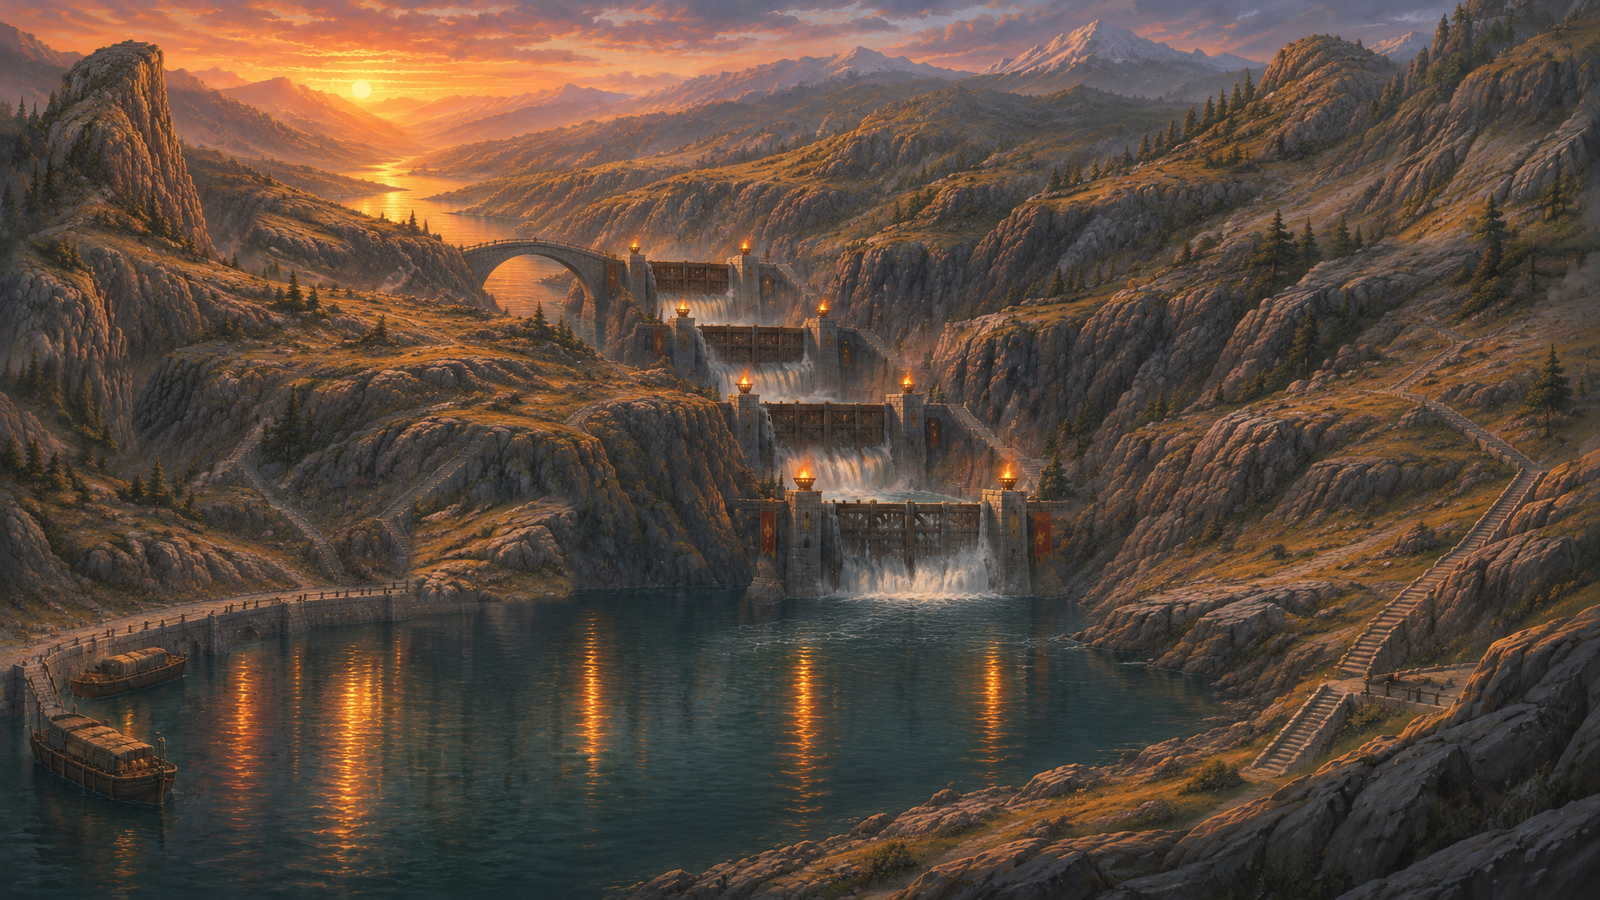
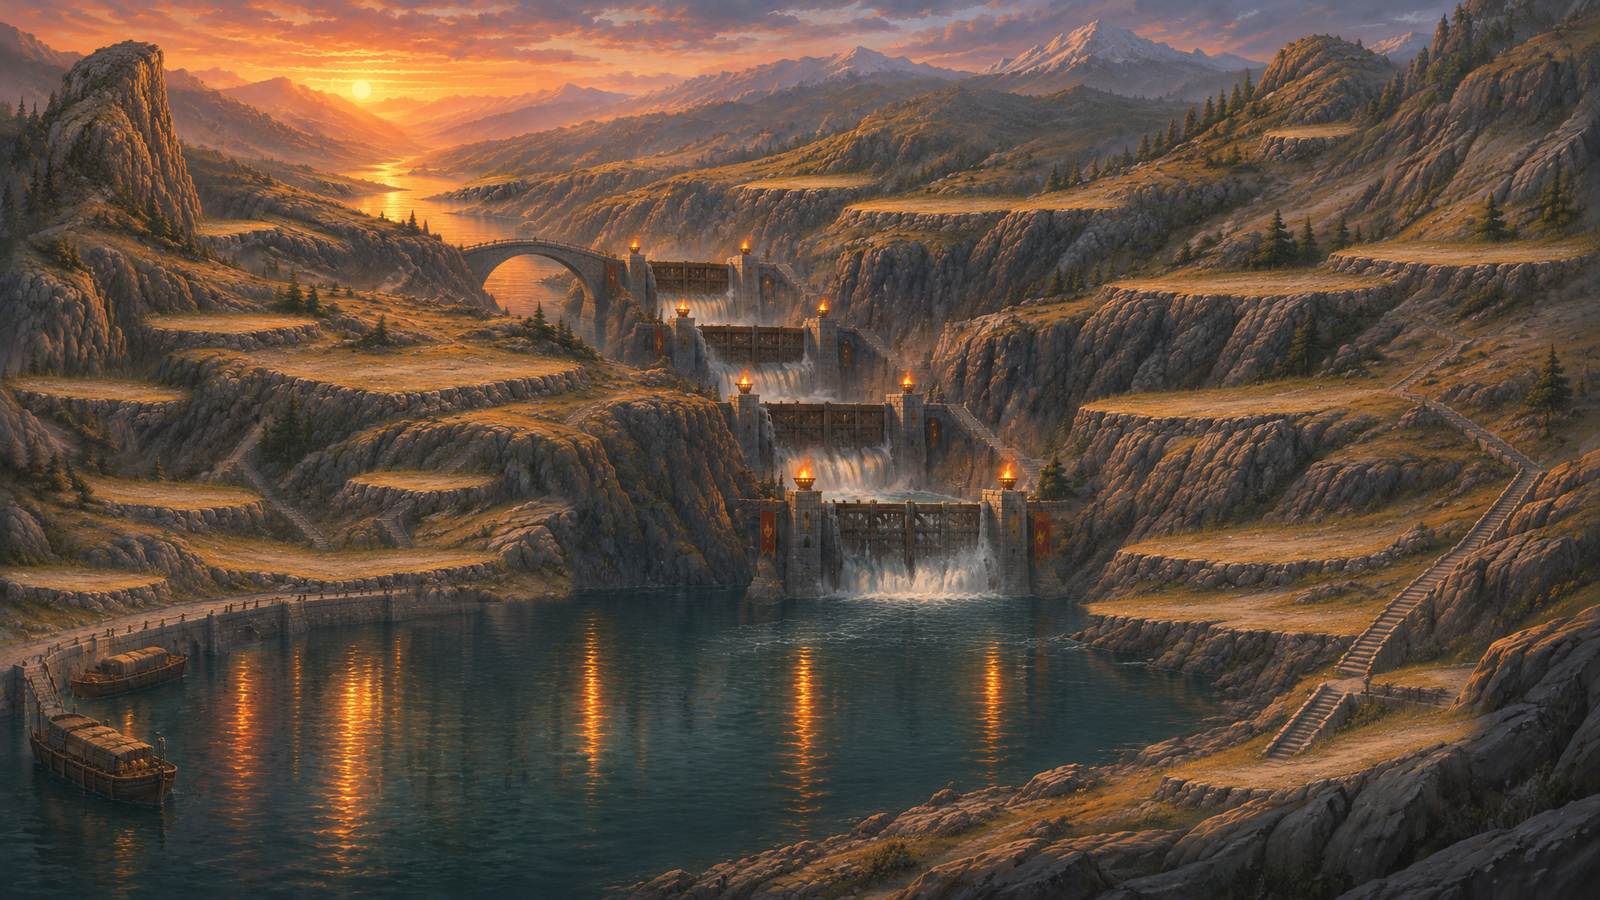
Town buildings stand on level ground: shelves painted into four backdrops
The owner found buildings still floating and standing where nothing could
stand (Sunvault, Thornwake, Veilmourn). Each building was painted into the
empty scene with a shelf of its own under it; the layer keeps the building
alone, so on a cliff face or a slope its base hung over ground that was never
level.

The ground now carries the shelf. tools/town_plot_shelves.py marks a band at
the foot of every plot's buildings (from all its stages' mattes) as the markup
of one unmasked edit of the backdrop, and blends that edit in only near the
bands, keeping water, falls, lamps and foreground, so the effect and
foreground masks still fit. Plots on water or on their own piles get no band.

Shipped for Sunvault, Veilmourn, Thornwake and Embercourt: new backdrops and
built-town pictures. The 208 building layers of those towns are unchanged,
byte for byte. Mireclaw and Brasshollow were tried and left as they were.

Checked in the game: the four towns at the start and fully built with both
dwelling choices. Core suite 18/18. Four edits shipped, two not used, $0.34.

diff --git a/tools/town_plot_shelves.py b/tools/town_plot_shelves.py
@@ -1,0 +1,134 @@
+"""Level ground for a town's plots: marks for the painter, and the repainted ground blended in.
+
+A building painted into the empty town scene brings its own footing: the painter draws a
+shelf under it. The layer keeps the building alone, so on a slope or a cliff face the
+building is left hanging over ground that was never level. The ground has to carry the
+shelf itself, for every stage of the plot and for the empty plot too.
+
+  marks   Draws, over the backdrop master, a red band where each plot's buildings stand:
+          the foot of all its stages' mattes, smoothed. The band is the markup image of one
+          unmasked edit of the master that asks for level natural ground in every band and
+          for nothing else to change. Also writes the bands as a mask, next to the markup.
+
+  blend   Takes that edit only near the bands; the rest of the master stays as it was, and
+          so does protected paint (white in a keep mask: water, falls, lamps, a foreground
+          tree), so effect masks and foreground masks keep fitting.
+
+The buildings stay as they are: they are cut against the master they were painted on
+(the packet's painted_on) and drawn over the new one.
+
+Needs numpy, scipy and Pillow.
+
+usage: python tools/town_plot_shelves.py marks <packet> <markup.png> [--skip plot_id ...]
+       python tools/town_plot_shelves.py blend <packet> <edit.png> <bands.png> <new master.png> [--keep mask.png ...]
+"""
+import argparse
+import json
+from pathlib import Path
+
+import numpy as np
+from PIL import Image
+from scipy import ndimage
+
+ROOT = Path(__file__).resolve().parents[1]
+FOOT_SHARE, FOOT_LEAST = 0.38, 50   # the foot of a building: this share of its height, at least this many pixels
+BAND_DEPTH = (0.16, 18, 46)         # how far the band reaches up behind the foot: share of the width, least, most
+BAND_BELOW, BAND_SIDE = 12, 16      # and below the foot and past its ends
+REACH, SOFT = 70, 14.0              # the edit is taken this far round a band, fading over this blur
+
+
+def bands_of(packet, skip):
+    master = ROOT / packet['backdrop']['source_path']
+    with Image.open(master) as image:
+        width, height = image.size
+    plots = {}
+    for item in packet['buildings']:
+        if item['plot_id'] in skip:
+            continue
+        wx, wy, ww, wh = item['matte']['window']
+        solid = np.zeros((height, width), bool)
+        with Image.open(ROOT / item['matte']['path']) as matte:
+            solid[wy:wy + wh, wx:wx + ww] = np.asarray(matte.convert('L')) > 127
+        labels, count = ndimage.label(solid)
+        if count > 1:
+            sizes = ndimage.sum(solid, labels, range(1, count + 1))
+            solid = np.isin(labels, [i + 1 for i, size in enumerate(sizes) if size >= 0.05 * sizes.max()])
+        plots[item['plot_id']] = plots.get(item['plot_id'], False) | ndimage.binary_fill_holes(solid)
+    bands = np.zeros((height, width), bool)
+    for union in plots.values():
+        # The foot only: a tower's wide top or a roof's overhang is not where it stands.
+        rows = np.flatnonzero(union.any(axis=1))
+        union = union.copy()
+        union[:max(0, rows.max() - max(FOOT_LEAST, int(FOOT_SHARE * (rows.max() - rows.min() + 1))))] = False
+        columns = union.sum(axis=0)
+        union[:, columns < 0.15 * columns.max()] = False
+        xs = np.flatnonzero(union.any(axis=0))
+        x0, x1 = xs.min(), xs.max()
+        low = (height - 1 - np.argmax(union[::-1], axis=0)).astype(np.float32)[x0:x1 + 1]
+        low = np.pad(low, BAND_SIDE, mode='edge')
+        low = ndimage.uniform_filter1d(ndimage.median_filter(low, size=61, mode='nearest'), size=41, mode='nearest')
+        share, least, most = BAND_DEPTH
+        depth = int(np.clip(share * (x1 - x0 + 1), least, most))
+        band = np.zeros((height, width), bool)
+        for i, x in enumerate(range(x0 - BAND_SIDE, x1 + BAND_SIDE + 1)):
+            if 0 <= x < width:
+                band[max(0, int(low[i]) - depth):min(height, int(low[i]) + BAND_BELOW), x] = True
+        bands |= ndimage.binary_opening(band, iterations=5)
+    return bands
+
+
+def marks(args):
+    packet = json.loads((ROOT / args.packet).read_text(encoding='utf-8'))
+    bands = bands_of(packet, set(args.skip))
+    edge = bands & ~ndimage.binary_erosion(bands, iterations=4)
+    markup = np.zeros(bands.shape + (4,), np.uint8)
+    markup[bands] = (255, 0, 0, 70)
+    markup[edge] = (255, 0, 0, 255)
+    out = Path(args.markup)
+    Image.fromarray(markup, 'RGBA').save(out)
+    Image.fromarray(bands.astype(np.uint8) * 255, 'L').save(out.with_name(out.stem.removesuffix('_markup') + '_bands.png'))
+    print('bands cover %.1f%% of the picture' % (bands.mean() * 100))
+
+
+def blend(args):
+    packet = json.loads((ROOT / args.packet).read_text(encoding='utf-8'))
+    with Image.open(ROOT / packet['backdrop']['source_path']) as image:
+        size = image.size
+        current = np.asarray(image.convert('RGB')).astype(np.float32)
+    with Image.open(args.edit) as image:
+        edit = np.asarray(image.convert('RGB').resize(size, Image.Resampling.LANCZOS)).astype(np.float32)
+    with Image.open(args.bands) as image:
+        bands = np.asarray(image.convert('L')) > 127
+    weight = ndimage.gaussian_filter((ndimage.distance_transform_edt(~bands) < REACH).astype(np.float32), SOFT)
+    for path in args.keep:
+        with Image.open(path) as image:
+            keep = np.asarray(image.convert('L').resize(size, Image.Resampling.LANCZOS)) > 100
+        keep = ndimage.maximum_filter(ndimage.gaussian_filter(keep.astype(np.float32), 3.0), size=7)
+        weight *= 1.0 - np.clip(keep, 0.0, 1.0)
+    out = current * (1.0 - weight[..., None]) + edit * weight[..., None]
+    Image.fromarray(np.clip(out + 0.5, 0, 255).astype(np.uint8), 'RGB').save(args.out)
+    print('the edit covers %.1f%% of the picture; %.1f%% of it changed visibly'
+          % (weight.mean() * 100, (np.abs(out - current).mean(axis=2) > 12).mean() * 100))
+
+
+def main():
+    parser = argparse.ArgumentParser(description=__doc__.split('\n\n')[0])
+    commands = parser.add_subparsers(dest='command', required=True)
+    command = commands.add_parser('marks')
+    command.add_argument('packet')
+    command.add_argument('markup')
+    command.add_argument('--skip', nargs='*', default=[], help='plots that stand on water or on their own piles')
+    command.set_defaults(run=marks)
+    command = commands.add_parser('blend')
+    command.add_argument('packet')
+    command.add_argument('edit')
+    command.add_argument('bands')
+    command.add_argument('out')
+    command.add_argument('--keep', nargs='*', default=[], help='masks whose white stays as the current master paints it')
+    command.set_defaults(run=blend)
+    args = parser.parse_args()
+    args.run(args)
+
+
+if __name__ == '__main__':
+    main()

diff --git a/docs/common-town-building-template.md b/docs/common-town-building-template.md
@@ -284,3 +284,5 @@ Sunvault was repainted the same way on 2026-11-10 (owner's choice: concept A, th
 Thornwake was repainted the same way on 2026-11-10, the last of the six (owner's choice: concept C, the root ravine, in a smoother repaint). The scene is a steep ravine in an ancient forest on a late-spring afternoon, seen from a high bough: a wall of giant roots and mossy ledges with small waterfalls, one colossal mother tree on a spur in the middle, pale trunks in a green-gold haze beyond, and a slow green river bending through the lower right. The water is a river bend at the lower right, not a lake under the army panel as in Mireclaw and Sunvault; the army panel covers only the crowns of blossoming trees, seen from above. Two first concepts had the ground as a gentle hillside, the flatness the owner had rejected for Embercourt, so two more were painted on the same plan with the valley turned into a ravine. The owner then asked why everything looked pixelated: the concept wording (loose painterly brushwork, visible brush texture, broad masses) had made the model build blossom, leaves and moss from blocky square dabs. One unmasked repaint that keeps the layout and asks for a finer, smoother hand removed it, at medium quality as well as at high, and the backdrop and all building prompts carry that wording; a full-size crop is checked before a concept is shown. The concord seat stands at the mother tree's foot, the pollen spire on a ledge at the upper left (kept below the status chips: its first painting rose under them and all five stages were repainted lower), the Fort line is a wall of coppiced bramble on the far saddle, and the tier-7 Worldroot Gate stands on the ledge under the mother tree. Its creatures follow the unit art: the base stage holds the squat, many-legged root bastion with a green seed-heart, the upgrade the root giant crowned with blossoming boughs. The Shipyard is a woven boat shed with a leaf-sailed barge on the river's near bank. BiRefNet marked only its barge, with one, two or three looks, so `root_ravine_shipyard_matte.py` cuts it from what the painting changed inside a hand-drawn outline and writes that matte into the packet. The blossoming crowns are in the foreground: `root_ravine_foreground.py` builds the packet's `backdrop.foreground` mask, as for Mireclaw's tree. The packet is `art/towns/source/generated/overhaul/faction_thornwake/root_ravine.json`; its `sources` note names the source art archive. The stage glows sit on the sunlit flank of the mother tree, the concord seat's lit arches and the sun's glints on the river. Its `stage_effects` are water that sways and glints on the river, four small waterfalls streaming, a pale green-gold pollen haze drifting to the left (`stage_mist`; thickest among the far trunks, none on the foreground blossom; thinned once because its bands read as smears at 0.85), a few wisps over the water and lantern light in the buildings at 0.8. `root_ravine_fx_mask.py` beside the packet rebuilds the mask.
 
 A quality pass followed on 2026-11-10 (slice `town-art-quality-pass-20261110`), after a critical comparison of the six towns from in-game captures with the effects on and off (owner: fix all listed). Haze: the drifting mist was built as long thin streamers to match the bell fjord's painted wisps, and over the bright, detailed paint of Embercourt, Sunvault and Thornwake it read as straight parallel streaks. A layout's `stage_mist` now also takes `shape` (the streamers' length and thickness against the fjord's) and `soft` (0 keeps crisp wisps with fine strands, 1 blends them into haze); those three towns use short thick soft patches at a lower `gain`. Ground: Sunvault's rock was soft with long diagonal smears, Mireclaw's floor soft and featureless after its first repaint, and Veilmourn's slopes covered in fine diagonal hatching and thin fog wisps. Each was repainted in one edit of the whole backdrop without a mask, asking for the same picture in a crisper hand (`sun_cirque_v2.png`, `dusk_fen_v3.png`, `bell_fjord_v3.png`; forms moved by under 1 pixel), and the water, sky and foreground were blended back from the earlier backdrop through a keep mask, so effect and foreground masks still fit; the buildings stay cut against the backdrop they were painted on (`backdrop.painted_on`). A first try with a mask over the land failed: the model re-composed the cliffs and left part of the picture empty, so a ground repaint is never masked. Edges: a layer's soft skirt of painted ground showed as a pale halo once the ground under it had changed, worst in Sunvault, so the three repainted towns cut with a short skirt (`cut.skirt_radius` 4, `skirt_strength` 0.4, against 12 and 0.85). Lodges: ten building stages that blended into their ground were repainted in lighter materials on the backdrop they were first painted on: Thornwake's lash lodge and toll hut, ram run and den, artifact exchange and hall of chronicles (pale wood, bark shingles, bleached horns), and Mireclaw's two storehouses and two spore lodges (pale driftwood, bleached thatch). Measured in the game with the effects off, the share of fine detail a one-pixel blur removes rose from 0.49 to 0.58 in Sunvault, 0.54 to 0.67 in Mireclaw and 0.57 to 0.60 in Veilmourn; the soft edge round buildings fell to about half its area in all three; Sunvault's buildings that blend in fell from 4 to 1 of 29 and Thornwake's from 13 to 11. Mireclaw's dark buildings still read by their lights more than by colour (27 of 29 by the mean-colour measure). Not changed: Veilmourn's older overlaps (its tier-6 pen under the army panel, the shipyard a fifth hidden).
+
+Level ground at the plots followed the same day (slice `town-plot-shelves-20261110`), after the owner found buildings still floating and standing where nothing could stand (Sunvault, Thornwake, Veilmourn). Cause: a building painted into the empty scene brings its own footing, because the painter draws a rock shelf, a turf ledge or a mossy terrace under it. The layer keeps the building alone, so on a cliff face or a slope its base hung over ground that was never level, and the shorter skirts of the quality pass took the last of the painted footing away. The ground now carries the shelf itself, for every stage of a plot and for the empty plot. `tools/town_plot_shelves.py marks` draws a band at the foot of every plot's buildings (the lowest part of all its stages' mattes, smoothed) as the markup of one unmasked edit of the backdrop that asks for level natural ground in each band and for nothing else to change; `blend` takes the edit only near the bands and keeps the water, falls, lamps and foreground of the current backdrop, so the effect and foreground masks still fit. Plots that stand on water or on their own piles get no band (shipyards, Veilmourn's sea forts, sea pen and whale pool, Embercourt's serpent pen). Shipped for Sunvault (`sun_cirque_v3.png`), Veilmourn (`bell_fjord_v4.png`), Thornwake (`root_ravine_v2.png`) and Embercourt (`lock_gorge_v2.png`); the building layers are unchanged, byte for byte. Mireclaw and Brasshollow were tried and left as they were: stilt houses in a fen and sheds on flat ash already stand, and the edit made them no better. A new town paints its empty backdrop with level ground at every plot from the start.

diff --git a/PLAN.md b/PLAN.md
@@ -54,6 +54,7 @@ None open.
 
 ## Open work
 
+- `town-plot-shelves-20261110` (in progress): Owner: buildings still float and stand out of place (Sunvault, Thornwake, Veilmourn). Paint level natural ground into the backdrops at every plot so each building stands; tools/town_plot_shelves.py, the four town packets, runtime backdrops. See `docs/common-town-building-template.md`.
 - `native-rules-phase7-14-campaign-20261023` (pending): port the campaign runtime to C++, together with the campaign rework (D-f). See `docs/native-rules-engine-transition.md`.
 - `content-authored-scenarios-obsolete-20261005` (paused): hold on all authored maps, scenarios and campaigns until the owner selects their rework. See `docs/authored-scenarios-obsolete.md`.
 - `playable-alpha-scenario-set-10184` (paused): Phase 5 umbrella: several scenarios and skirmish setups played end to end, with save/load, outcomes, AI pressure and a viable economy. Waits for the authored-content rework.
